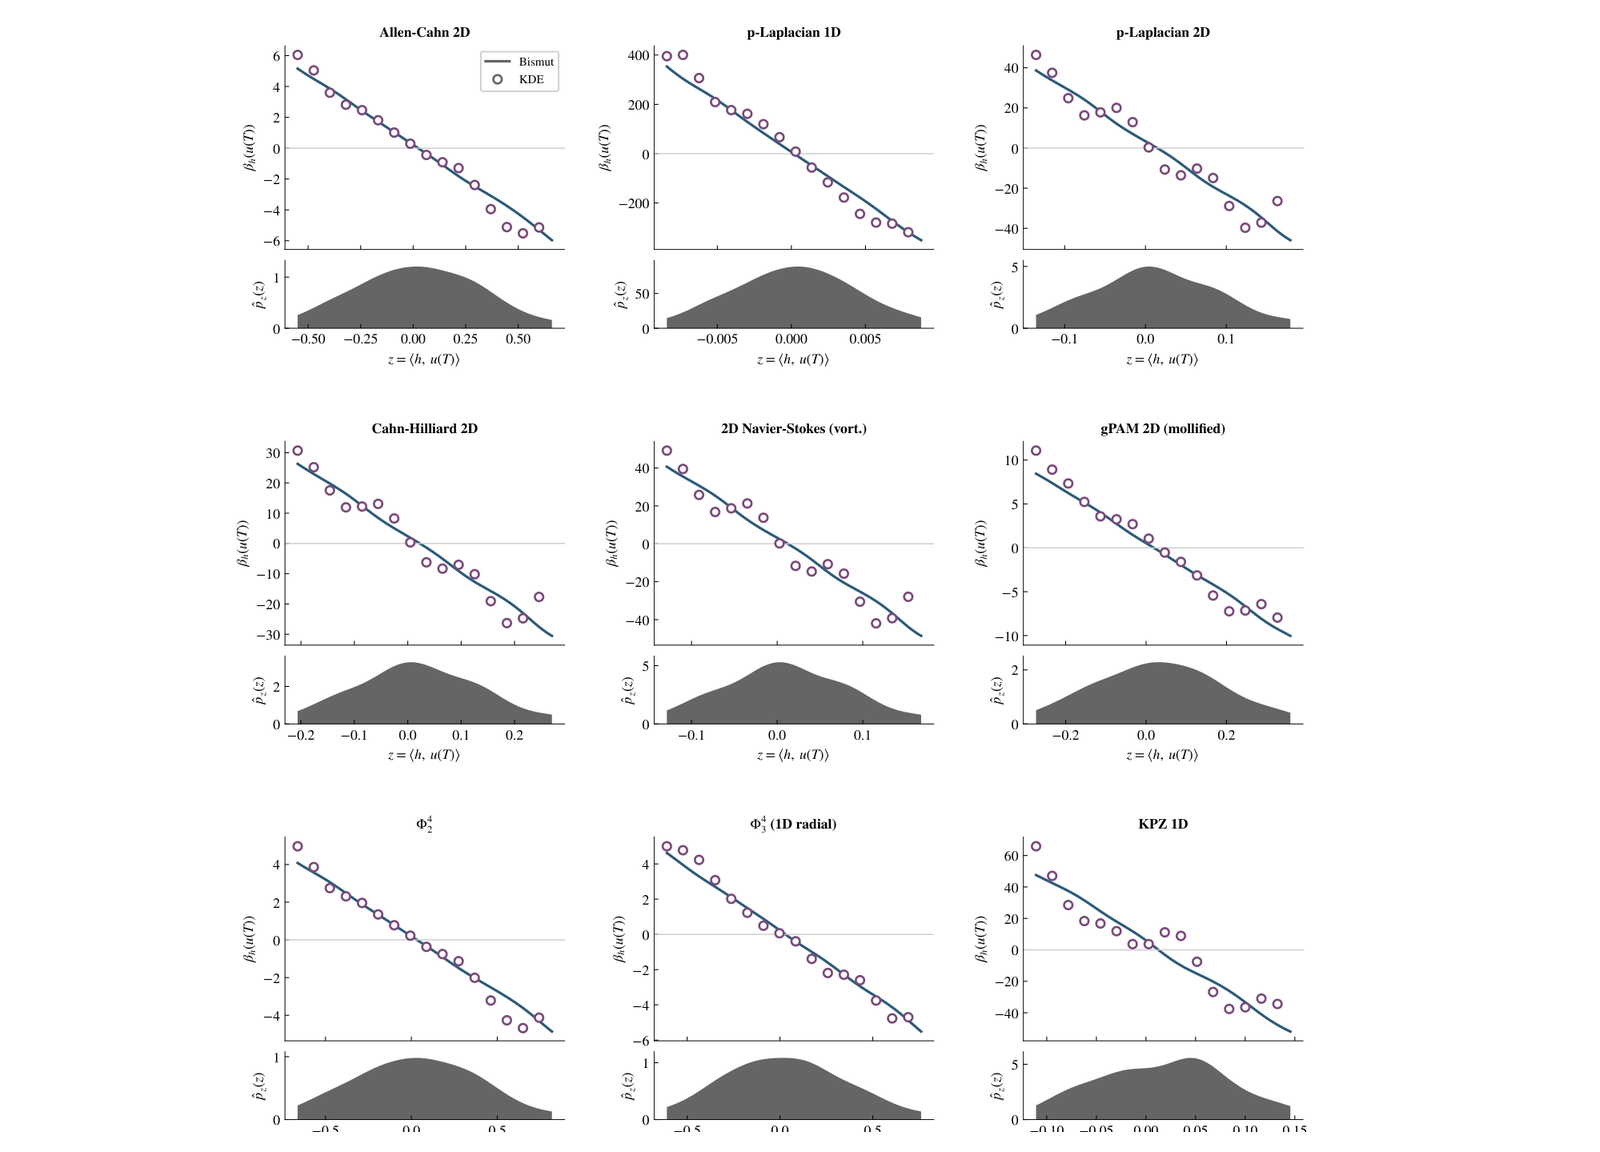
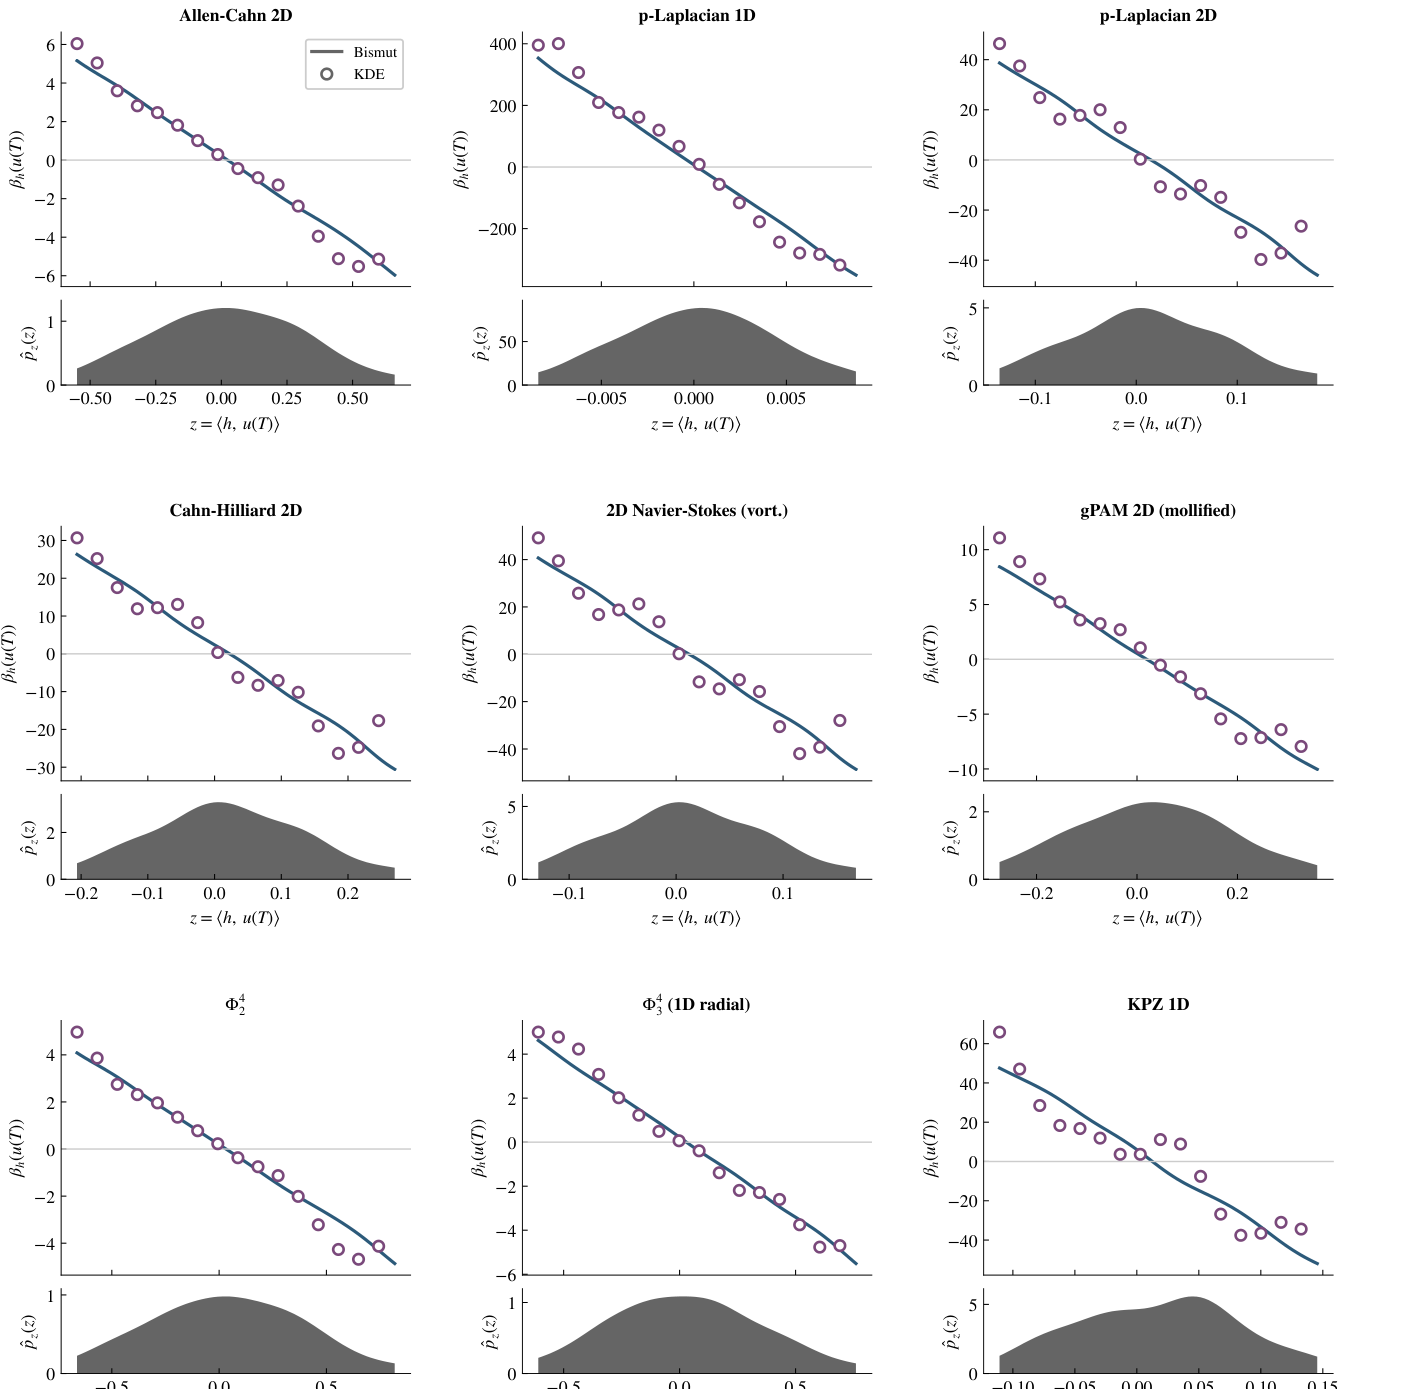
Remove padded whitespace and preserve publication figure proportions

diff --git a/layouts/partials/li_card.html b/layouts/partials/li_card.html
@@ -72,8 +72,11 @@
   {{ with $resource }}
   {{ $pic_width := $item.Params.image.pic_width | default 718 }}
   {{ $image := .Fill (printf "%dx517 q90 %s" $pic_width $anchor) }}
+  {{ if $item.Params.image.fit }}
+    {{ $image = .Fit (printf "%dx517 q90" $pic_width) }}
+  {{ end }}
   <a href="{{ $item.RelPermalink }}">
-      <img src="{{ $image.RelPermalink }}" class="article-banner" itemprop="image" alt="">
+      <img src="{{ $image.RelPermalink }}" class="article-banner{{ if $item.Params.image.fit }} publication-figure{{ end }}" itemprop="image" alt="">
   </a>
   {{end}}
 

diff --git a/assets/css/custom.css b/assets/css/custom.css
@@ -111,3 +111,13 @@ body {
 .older-news[open] > summary {
   margin-bottom: 1rem;
 }
+
+/* Preserve paper figures without padded canvases or clipped diagram edges. */
+.card-simple .publication-figure {
+  display: block;
+  width: auto;
+  max-width: 100%;
+  height: auto;
+  max-height: 517px;
+  margin: 1.25rem auto;
+}

diff --git a/content/publication/malliavin-score-functions/index.md b/content/publication/malliavin-score-functions/index.md
@@ -17,6 +17,7 @@ links = [{name = "Publication", url = "https://arxiv.org/abs/2507.05550"}]
 [image]
   caption = "Theorem 2.1: Score-function representation (equation excerpt; this paper contains no figures)"
   focal_point = "Center"
+  fit = true
 +++
 
 ![Extract from the paper: Theorem 2.1: Score-function representation (equation excerpt; this paper contains no figures)](figure.png)

diff --git a/content/publication/compositional-alzheimer-detection/index.md b/content/publication/compositional-alzheimer-detection/index.md
@@ -17,6 +17,7 @@ links = [{name = "Publication", url = "https://www.nature.com/articles/s41598-02
 [image]
   caption = "Figure 1: Compositional graph for Alzheimer’s disease detection"
   focal_point = "Center"
+  fit = true
 +++
 
 ![Extract from the paper: Figure 1: Compositional graph for Alzheimer’s disease detection](figure.png)

diff --git a/content/publication/ulf-information-ceiling/index.md b/content/publication/ulf-information-ceiling/index.md
@@ -17,6 +17,7 @@ links = [{name = "Publication", url = "https://arxiv.org/abs/2609.36837"}]
 [image]
   caption = "Figure 3: Anatomical detail and the measured information ceiling"
   focal_point = "Center"
+  fit = true
 +++
 
 ![Extract from the paper: Figure 3: Anatomical detail and the measured information ceiling](figure.png)

diff --git a/content/publication/latent-langevin/index.md b/content/publication/latent-langevin/index.md
@@ -17,6 +17,7 @@ links = [{name = "Publication", url = "https://arxiv.org/abs/2510.25773"}]
 [image]
   caption = "Figure 1: Ground-truth and predicted latent-space probabilities"
   focal_point = "Center"
+  fit = true
 +++
 
 ![Extract from the paper: Figure 1: Ground-truth and predicted latent-space probabilities](figure.png)

diff --git a/content/publication/infinite-dimensional-diffusion/index.md b/content/publication/infinite-dimensional-diffusion/index.md
@@ -17,6 +17,7 @@ links = [{name = "Publication", url = "https://arxiv.org/abs/2508.20316"}]
 [image]
   caption = "Figure 1: Numerical validation of the Malliavin score formula"
   focal_point = "Center"
+  fit = true
 +++
 
 ![Extract from the paper: Figure 1: Numerical validation of the Malliavin score formula](figure.png)

diff --git a/content/publication/tica-energy-matching/index.md b/content/publication/tica-energy-matching/index.md
@@ -17,6 +17,7 @@ links = [{name = "Publication", url = "https://arxiv.org/abs/2509.14600"}]
 [image]
   caption = "Figure 1: Ground-truth and predicted free-energy landscapes"
   focal_point = "Center"
+  fit = true
 +++
 
 ![Extract from the paper: Figure 1: Ground-truth and predicted free-energy landscapes](figure.png)

diff --git a/content/publication/md-weighted-ensemble-benchmark/index.md b/content/publication/md-weighted-ensemble-benchmark/index.md
@@ -17,6 +17,7 @@ links = [{name = "Publication", url = "https://doi.org/10.1021/acs.jpcb.5c05365"
 [image]
   caption = "Figure 1: Weighted ensemble benchmarking framework"
   focal_point = "Center"
+  fit = true
 +++
 
 ![Extract from the paper: Figure 1: Weighted ensemble benchmarking framework](figure.png)

diff --git a/content/publication/spde-logarithmic-derivatives/index.md b/content/publication/spde-logarithmic-derivatives/index.md
@@ -17,6 +17,7 @@ links = [{name = "Publication", url = "https://arxiv.org/abs/2608.21805"}]
 [image]
   caption = "Figure 1: Numerical validation across stochastic PDEs"
   focal_point = "Center"
+  fit = true
 +++
 
 ![Extract from the paper: Figure 1: Numerical validation across stochastic PDEs](figure.png)

diff --git a/content/publication/hessian-matching/index.md b/content/publication/hessian-matching/index.md
@@ -17,6 +17,7 @@ links = [{name = "Publication", url = "https://arxiv.org/abs/2605.12823"}]
 [image]
   caption = "Figure 1: Hessian-vector product matching pipeline"
   focal_point = "Center"
+  fit = true
 +++
 
 ![Extract from the paper: Figure 1: Hessian-vector product matching pipeline](figure.png)

diff --git a/content/publication/holographic-generative-flows/index.md b/content/publication/holographic-generative-flows/index.md
@@ -17,6 +17,7 @@ links = [{name = "Publication", url = "https://arxiv.org/abs/2601.22033"}]
 [image]
   caption = "Figure 1: Holographic encoding of an MNIST sample"
   focal_point = "Center"
+  fit = true
 +++
 
 ![Extract from the paper: Figure 1: Holographic encoding of an MNIST sample](figure.png)
